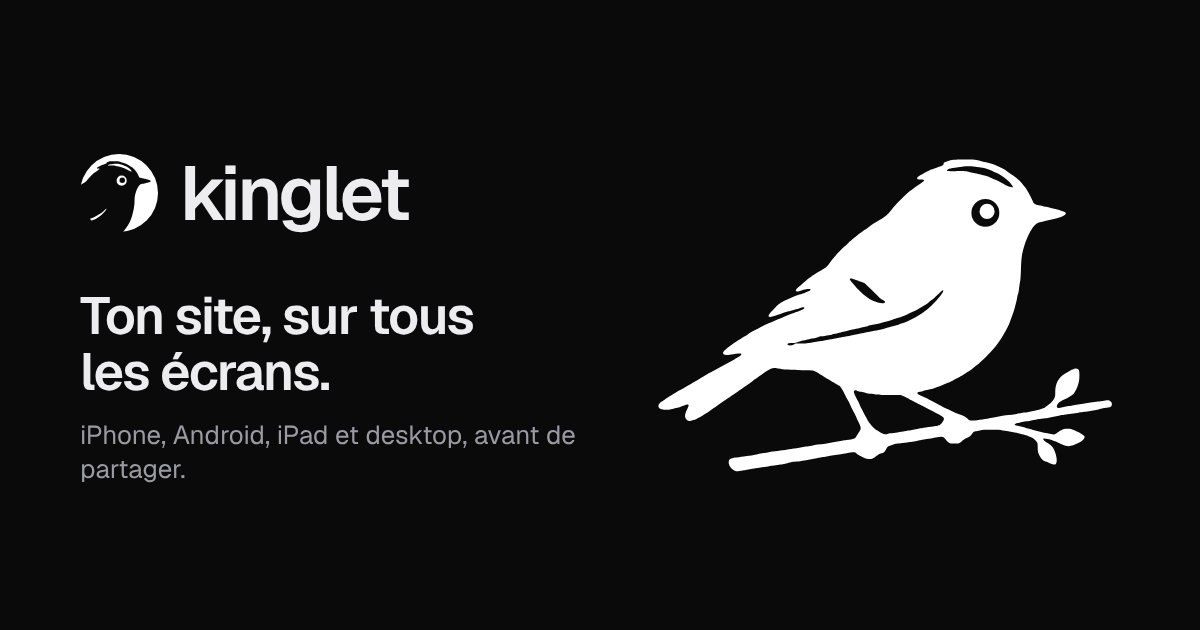
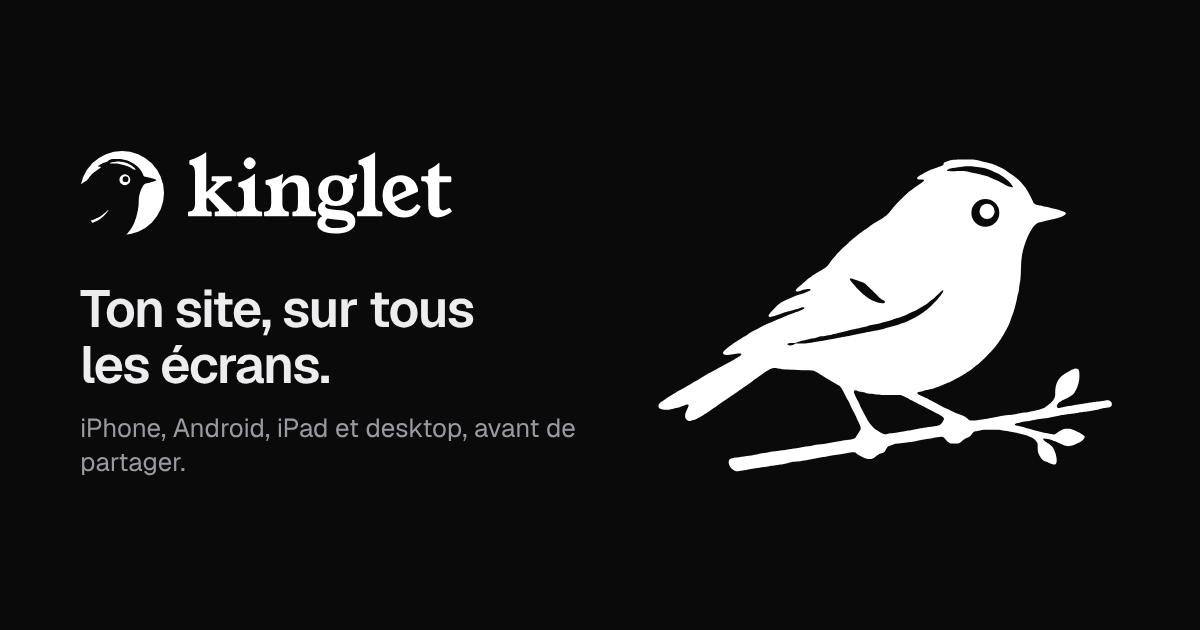
Kinglet wordmark in Young Serif
- brand/: full logo (round head + name) and name alone, in black and white,
  with the letters outlined (no font to load), plus PNG exports.
- Site: the header shows the new logo; share image redone with it.

Claude-Session: https://claude.ai/code/session_01WzDMDJT6R6iaZao3mqEnXa

Changed region(s): [[0.0617, 0.4524, 0.4008, 0.6333], [0.0617, 0.2413, 0.37, 0.3921], [0.0617, 0.6635, 0.4933, 0.7841]]

diff --git a/apps/web/src/index.html b/apps/web/src/index.html
@@ -32,7 +32,7 @@
     h1, h2 { margin: 0; font-weight: 600; letter-spacing: -0.04em; line-height: 1.04; }
     h2 { font-size: clamp(30px, 4vw, 44px); }
     p { margin: 0; color: var(--muted); }
-    .mark { display: block; width: 26px; height: 26px; flex: none; color: var(--fg); }
+    .logo { display: block; height: 27px; width: auto; color: var(--fg); }
     nav { display: flex; flex-wrap: wrap; gap: 16px; align-items: center; justify-content: space-between; padding-top: 20px; padding-bottom: 20px; }
     .brand { display: flex; align-items: center; gap: 10px; text-decoration: none; font-weight: 600; font-size: 19px; letter-spacing: -0.05em; }
     .links { display: flex; flex-wrap: wrap; gap: 24px; align-items: center; font-size: 14px; }
@@ -79,7 +79,7 @@
 </head>
 <body>
   <nav class="wrap" aria-label="Navigation">
-    <a class="brand" href="/"><svg class="mark" viewBox="47 14 44 44" aria-hidden="true"><defs><mask id="kinglet-round" maskUnits="userSpaceOnUse" x="47" y="14" width="44" height="44"><circle cx="69" cy="36" r="22" fill="#fff"/><path fill="#000" fill-rule="evenodd" d="M19.61,81.82C18.85,81.69 18.07,80.76 18.07,79.99C18.07,79.43 18.33,79.18 19.01,79.1C19.2,79.08 19.47,79.04 19.61,79.01C19.9,78.95 22.44,78.59 22.98,78.53C23.19,78.51 23.65,78.42 24.01,78.33C24.37,78.24 24.92,78.14 25.22,78.11C25.52,78.07 25.99,78 26.25,77.94C26.51,77.87 26.91,77.81 27.13,77.79C28.31,77.68 30.1,77.44 30.73,77.3C30.85,77.27 31.25,77.22 31.59,77.19C31.93,77.15 32.46,77.06 32.76,76.98C33.06,76.91 33.53,76.82 33.82,76.78C34.11,76.75 34.65,76.66 35.05,76.59C35.74,76.46 36.67,76.33 37.8,76.22C38.1,76.19 38.59,76.1 38.89,76.02C39.18,75.94 39.69,75.85 40.02,75.81C40.35,75.78 40.88,75.69 41.19,75.61C41.51,75.54 41.93,75.47 42.14,75.44C43.67,75.3 43.89,75.21 44.18,74.64C44.26,74.49 44.48,74.13 44.68,73.85C45.17,73.14 45.16,73.01 44.61,71.84C44.4,71.37 44.18,70.89 44.14,70.78C44.1,70.67 43.81,70.11 43.51,69.53C43.21,68.94 42.9,68.31 42.83,68.12C42.76,67.94 42.6,67.63 42.48,67.44C42.36,67.25 42.09,66.74 41.88,66.3C41.4,65.31 40.93,64.54 40.69,64.36C40.59,64.28 40.21,64.07 39.85,63.88C39.48,63.69 38.95,63.38 38.67,63.2C38.39,63.01 37.86,62.67 37.47,62.45C37.1,62.23 36.63,61.94 36.44,61.8C36.24,61.65 35.91,61.46 35.69,61.38C35.31,61.21 35.31,61.21 33.08,61.17C30.69,61.13 29.27,61.03 28.14,60.83C27.32,60.69 27.06,60.71 26.59,60.95C26.16,61.17 25.37,61.66 24.96,61.98C24.77,62.13 24.32,62.45 23.96,62.69C23.61,62.93 23.2,63.22 23.05,63.34C22.9,63.46 22.57,63.7 22.3,63.88C21.61,64.35 19.99,65.48 19.56,65.8C19.16,66.09 17.63,67.14 16.72,67.74C16.41,67.95 15.99,68.25 15.78,68.41C15.57,68.58 15.32,68.75 15.21,68.81C15.1,68.86 14.81,69.06 14.58,69.23C13.58,69.99 12.01,70.97 11.5,71.13C11.29,71.2 11.01,71.32 10.86,71.38C10.33,71.65 9.8,71.59 9.45,71.23C9.01,70.77 9.06,70.23 9.66,69C10.11,68.08 9.93,67.97 8.81,68.44C8.43,68.6 7.88,68.78 7.59,68.85C7.3,68.91 6.83,69.03 6.55,69.11C5.8,69.33 4.63,69.34 4.21,69.13C3.86,68.95 3.72,68.77 3.72,68.5C3.72,68.21 3.97,67.86 4.39,67.6C4.56,67.49 4.88,67.26 5.09,67.1C5.31,66.94 5.65,66.71 5.87,66.6C6.08,66.48 6.64,66.13 7.12,65.84C7.59,65.54 8,65.29 8.04,65.29C8.07,65.29 8.25,65.2 8.44,65.09C8.91,64.8 9.77,64.3 10.35,63.98C10.91,63.67 12.36,62.81 13.15,62.31C13.45,62.12 13.93,61.85 14.23,61.71C14.53,61.57 14.91,61.36 15.07,61.26C15.35,61.08 16.72,60.33 19.14,59.03C20.2,58.46 20.51,58.24 20.64,58C20.82,57.67 20.41,57.67 18.26,58.01C17.29,58.16 16.88,58.03 16.92,57.57C16.94,57.33 18.06,56.34 18.96,55.77C19.15,55.65 19.52,55.41 19.79,55.24C20.73,54.63 21.13,54.39 21.38,54.26C21.53,54.19 21.78,54.02 21.96,53.89C22.28,53.63 23.06,53.18 23.62,52.93C23.8,52.85 24.09,52.69 24.26,52.58C24.7,52.3 25.04,52.13 26.01,51.71C26.47,51.52 27.11,51.23 27.44,51.09C27.78,50.94 28.27,50.73 28.56,50.63C28.85,50.53 29.61,50.21 30.25,49.93C30.9,49.64 31.64,49.35 31.88,49.29C32.12,49.22 32.4,49.13 32.49,49.07C32.6,49.02 32.85,48.91 33.07,48.83C33.52,48.66 33.65,48.52 33.48,48.39C33.31,48.27 32.98,48.3 32.68,48.46C32.53,48.54 32.23,48.64 32.02,48.68C31.81,48.73 31.5,48.82 31.33,48.89C31.17,48.95 30.73,49.06 30.36,49.14C29.99,49.21 29.57,49.33 29.42,49.39C29.16,49.51 28.32,49.79 27.16,50.17C26.51,50.38 26.33,50.38 26.23,50.18C26.13,49.95 26.38,49.61 27.35,48.61C28.38,47.56 28.43,47.52 29.8,46.84C31.11,46.2 32.12,45.79 32.76,45.66C33.03,45.6 33.44,45.47 33.68,45.37C33.91,45.27 34.21,45.14 34.35,45.08C34.67,44.95 34.88,44.73 34.76,44.65C34.53,44.51 33.59,44.63 32.92,44.89C32.3,45.12 31.88,45.17 31.8,45.01C31.7,44.83 31.89,44.55 32.39,44.15C32.64,43.95 33.08,43.57 33.36,43.32C34.04,42.7 34.6,42.26 35.03,41.99C35.22,41.86 35.6,41.62 35.86,41.45C36.12,41.27 36.64,40.96 37.02,40.76C37.85,40.33 38.31,39.9 38.92,38.99C39.39,38.29 40.58,36.99 41.71,35.93C42.15,35.52 42.55,35.13 42.6,35.08C42.64,35.02 42.89,34.82 43.14,34.63C43.39,34.44 43.71,34.18 43.85,34.05C44.15,33.77 45.57,32.69 45.97,32.45C46.11,32.36 46.38,32.17 46.57,32.02C47.15,31.57 47.81,31.13 48.14,30.96C48.31,30.87 48.61,30.7 48.8,30.56C48.99,30.43 49.36,30.18 49.63,30.02C50.45,29.51 50.54,29.42 51.68,27.96C52.09,27.44 53.83,25.65 54.39,25.18C55.15,24.55 55.85,24.02 56.97,23.27C57.53,22.89 57.95,22.57 57.96,22.51C58,22.29 57.87,22.24 57.31,22.24C56.71,22.24 56.55,22.19 56.55,21.99C56.55,21.83 56.7,21.69 57.2,21.38C58.59,20.54 59.22,20.23 59.96,20.03C60.27,19.95 60.63,19.82 60.78,19.75C60.92,19.68 61.19,19.58 61.38,19.53C61.75,19.42 61.98,19.23 61.98,19.03C61.98,18.81 62.06,18.75 62.73,18.52C63.68,18.2 64.03,18.16 66.24,18.16C68.3,18.16 68.68,18.19 69.5,18.44C69.75,18.51 70.26,18.64 70.64,18.73C72.17,19.07 73.84,19.78 74.97,20.58C75.31,20.82 75.81,21.17 76.1,21.37C76.39,21.56 76.78,21.86 76.97,22.04C77.16,22.22 77.39,22.42 77.48,22.49C77.68,22.63 78.52,23.64 78.87,24.15C79.23,24.68 80.08,26.28 80.18,26.64C80.33,27.17 80.63,27.38 81.42,27.5C81.65,27.53 81.98,27.6 82.14,27.64C82.3,27.69 82.65,27.77 82.92,27.82C83.18,27.87 83.54,27.96 83.73,28.02C83.92,28.08 84.28,28.17 84.53,28.22C85.32,28.37 86.79,28.87 86.89,29.03C87.1,29.35 86.58,29.7 85.44,30.02C85.1,30.11 84.36,30.31 83.8,30.47C83.24,30.63 82.5,30.79 82.17,30.85C81.84,30.9 81.42,31 81.26,31.08C80.85,31.26 80.3,31.82 79.99,32.36C79.86,32.6 79.66,32.92 79.55,33.09C79.24,33.58 78.55,35.34 78.29,36.34C77.91,37.8 77.85,38.28 77.76,40.88C77.72,41.78 77.67,42.62 77.65,42.77C77.54,43.32 77.42,44.2 77.36,44.72C77.33,45.03 77.25,45.41 77.19,45.57C77.12,45.73 77.03,46.11 76.98,46.42C76.91,46.91 76.78,47.42 76.44,48.68C76.38,48.91 76.21,49.41 76.07,49.8C75.92,50.19 75.72,50.76 75.61,51.06C75.06,52.68 73.44,55.36 72.04,56.95C71.03,58.08 69.3,59.79 68.87,60.06C68.68,60.18 68.41,60.39 68.27,60.51C67.94,60.82 67.2,61.37 66.95,61.49C66.84,61.55 66.55,61.74 66.3,61.92C65.88,62.22 65.55,62.4 63.69,63.37C63.36,63.54 62.99,63.71 62.86,63.75C62.74,63.79 62.44,63.91 62.21,64.01C60.68,64.69 59.77,65 58.83,65.18C58.47,65.24 58.02,65.35 57.83,65.41C57.64,65.47 57.34,65.55 57.15,65.59C56.68,65.67 56.59,65.72 56.62,65.91C56.63,66.08 57.04,66.31 57.95,66.67C58.2,66.77 58.62,66.97 58.89,67.12C59.16,67.27 59.77,67.59 60.26,67.84C60.74,68.08 61.33,68.39 61.57,68.54C61.81,68.68 62.23,68.9 62.51,69.02C62.79,69.14 63.23,69.35 63.49,69.49C63.74,69.63 64.12,69.79 64.32,69.86C64.96,70.06 66.03,70.48 66.28,70.63C66.42,70.71 66.68,70.92 66.88,71.09C67.08,71.27 67.31,71.43 67.39,71.45C67.76,71.54 70.17,71.26 71.3,70.99C71.63,70.91 72.16,70.82 72.46,70.78C72.78,70.75 73.24,70.67 73.48,70.61C73.73,70.54 74.28,70.46 74.69,70.41C75.64,70.31 76.88,70.13 77.59,69.99C77.88,69.93 78.35,69.86 78.62,69.84C78.89,69.82 79.31,69.74 79.56,69.67C79.81,69.59 80.25,69.5 80.54,69.45C81.26,69.33 82.37,68.98 82.65,68.79C82.88,68.65 83.13,68.46 83.84,67.89C84.45,67.4 84.83,66.66 84.77,66.04C84.75,65.83 84.77,65.36 84.81,64.93C85,63.38 85.78,62.3 87.25,61.58C87.51,61.45 87.76,61.32 87.79,61.29C87.88,61.21 88.7,60.9 88.92,60.86C89.22,60.81 89.5,60.96 89.62,61.24C89.73,61.5 89.74,62.62 89.65,63.26C89.51,64.25 89.01,65.47 88.54,65.97C88.29,66.24 87.48,66.77 87.03,66.95C86.53,67.16 85.72,67.6 85.55,67.76C85.1,68.19 84.96,68.67 85.25,68.83C85.45,68.93 86.04,68.88 86.54,68.71C86.76,68.63 87.19,68.54 87.49,68.5C87.79,68.47 88.26,68.39 88.52,68.32C88.78,68.26 89.35,68.17 89.79,68.12C90.23,68.07 90.76,67.99 90.97,67.95C91.34,67.86 92.58,67.68 93.48,67.58C93.75,67.55 94.32,67.47 94.76,67.4C95.54,67.28 95.55,67.28 95.81,67.39C96.39,67.62 96.54,68.35 96.08,68.65C95.91,68.76 95.25,68.89 94.87,68.9C94.73,68.9 94.39,68.97 94.12,69.07C93.84,69.16 93.38,69.26 93.08,69.3C92.78,69.33 92.27,69.42 91.94,69.5C91.61,69.57 91.06,69.66 90.73,69.69C90.39,69.73 89.85,69.8 89.53,69.86C88.83,69.99 87.4,70.19 86.62,70.26C86.31,70.29 85.89,70.37 85.67,70.43C85.45,70.5 85.02,70.59 84.71,70.63C84.39,70.69 83.94,70.77 83.7,70.83C83.47,70.89 83.02,70.97 82.7,71.01C81.86,71.11 80.3,71.35 79.91,71.44C79.71,71.49 79.24,71.56 78.85,71.61C78.45,71.65 77.97,71.74 77.78,71.81C77.58,71.87 77.28,71.95 77.1,71.98C76.58,72.08 76.34,72.3 76.61,72.44C76.67,72.47 77.07,72.56 77.48,72.64C77.9,72.72 78.43,72.84 78.64,72.92C78.86,72.99 79.15,73.07 79.27,73.09C79.4,73.12 79.77,73.22 80.1,73.33C81,73.61 82.38,73.95 83.19,74.07C83.49,74.12 83.85,74.19 83.99,74.24C84.48,74.41 84.65,74.37 85.23,73.92C85.41,73.77 85.8,73.53 86.08,73.4C86.58,73.17 86.62,73.16 87.23,73.14C87.84,73.12 87.87,73.12 88.39,73.33C89.47,73.75 90.59,74.39 90.74,74.68C90.92,75.01 90.44,75.61 89.7,75.97C87.96,76.83 87.4,76.9 86.19,76.35C85.88,76.21 85.43,76 85.19,75.89C84.95,75.79 84.74,75.7 84.72,75.7C84.69,75.7 84.44,75.61 84.16,75.5C83.57,75.27 82.43,75.07 82.33,75.17C82.18,75.31 82.66,75.76 83.39,76.16C84.08,76.55 84.52,77.15 84.83,78.18C85.15,79.21 85.16,80.08 84.84,80.37C84.67,80.52 84.42,80.49 83.79,80.23C83.48,80.11 83.02,79.93 82.79,79.85C82.23,79.63 81.95,79.37 81.6,78.71C81.25,78.07 81.19,77.78 81.19,76.88C81.19,76.34 81.17,76.14 81.08,75.96C80.97,75.71 80.45,75.2 80.08,74.99C79.83,74.84 78.4,74.33 78.25,74.33C78.2,74.33 77.91,74.25 77.6,74.15C77.11,73.99 76.7,73.91 75.39,73.7C75.17,73.66 74.59,73.57 74.1,73.49C73.3,73.36 73.05,73.34 71.61,73.34C70.09,73.34 69.98,73.34 69.38,73.48C69.04,73.56 68.65,73.65 68.52,73.67C68.16,73.73 67.99,73.85 67.72,74.27C67.44,74.68 67.24,74.83 66.7,75.01C66.33,75.14 66.14,75.27 65.68,75.69C65.2,76.12 65.09,76.16 64.19,76.16C63.45,76.16 63.41,76.15 63.08,75.98C62.82,75.85 62.67,75.73 62.52,75.51C61.93,74.69 61.86,74.67 60.71,74.87C60.23,74.95 59.69,75.05 59.52,75.1C59.35,75.15 58.91,75.21 58.55,75.25C58.19,75.28 57.66,75.37 57.38,75.44C57.09,75.52 56.56,75.62 56.2,75.67C55.84,75.72 55.32,75.81 55.03,75.87C54.53,75.98 52.68,76.21 52.33,76.21C52.08,76.21 50.75,76.66 50.57,76.8C50.49,76.86 50.34,77.1 50.22,77.32C49.9,77.97 49.75,78.08 49.1,78.19C48.97,78.21 48.72,78.35 48.39,78.59C47.52,79.25 47.39,79.3 46.8,79.3C46.34,79.3 46.23,79.28 45.81,79.1C45.31,78.9 44.32,78.34 44.19,78.18C43.95,77.88 43.46,77.87 42.17,78.13C41.79,78.21 41.25,78.3 40.97,78.33C39.97,78.45 38.85,78.62 38.34,78.74C38.06,78.79 37.59,78.87 37.31,78.91C37.03,78.94 36.56,79.03 36.28,79.1C35.99,79.18 35.52,79.26 35.22,79.3C34.92,79.34 34.43,79.43 34.13,79.5C33.6,79.63 31.8,79.87 31.34,79.87C31.21,79.87 30.86,79.95 30.57,80.05C30.28,80.14 29.83,80.25 29.59,80.28C29.34,80.31 28.9,80.4 28.62,80.47C28.33,80.55 27.77,80.63 27.36,80.67C26.95,80.71 26.49,80.77 26.34,80.79C25.95,80.87 24.31,81.12 23.56,81.22C23.22,81.26 22.69,81.36 22.36,81.44C22.02,81.52 21.58,81.6 21.36,81.62C21.13,81.64 20.76,81.69 20.53,81.73C19.88,81.85 19.83,81.85 19.61,81.82ZM50.46,74.19C50.65,74.15 50.97,74.09 51.17,74.07C51.75,74.01 53.37,73.77 54,73.64C54.32,73.58 54.72,73.52 54.89,73.5C55.06,73.48 55.45,73.4 55.75,73.33C56.04,73.25 56.51,73.16 56.78,73.13C57.04,73.09 57.44,73.02 57.66,72.98C57.88,72.93 58.68,72.82 59.45,72.73C60.5,72.6 60.88,72.53 61.06,72.44C61.42,72.26 62.04,71.43 62.04,71.13C62.04,70.74 61.81,70.6 57.98,68.65C55.35,67.31 55.17,67.22 54.77,66.97C54.57,66.84 54.13,66.63 53.81,66.5L53.21,66.26L50.92,66.24C49.12,66.23 48.52,66.21 48.14,66.14C47.87,66.09 47.4,66.03 47.08,66.01C46.75,65.99 46.33,65.91 46.07,65.83C45.82,65.75 45.41,65.65 45.15,65.6C44.88,65.56 44.52,65.47 44.34,65.41C44.16,65.35 43.96,65.29 43.91,65.29C43.75,65.29 43.61,65.5 43.64,65.68C43.68,65.9 44.2,67.03 44.45,67.43C44.56,67.62 44.73,67.98 44.83,68.23C44.93,68.49 45.05,68.76 45.1,68.84C45.15,68.92 45.32,69.24 45.48,69.55C46.19,70.92 46.63,71.7 46.91,72.07C47.39,72.7 47.98,73.28 48.32,73.45C48.49,73.53 48.75,73.69 48.9,73.8C49.22,74.03 49.76,74.27 49.97,74.27C50.05,74.27 50.27,74.23 50.46,74.19ZM31.41,55.91C31.74,55.75 31.77,55.75 32.67,55.75C33.61,55.75 34.28,55.67 35.96,55.37C36.39,55.29 36.91,55.22 37.14,55.2C37.36,55.18 37.79,55.1 38.1,55.03C38.4,54.95 38.94,54.85 39.27,54.8C39.61,54.76 40.08,54.67 40.31,54.61C40.55,54.55 41.21,54.43 41.79,54.35C42.37,54.27 43.04,54.14 43.29,54.06C43.54,53.98 43.99,53.89 44.3,53.85C44.6,53.82 45.01,53.73 45.21,53.65C45.41,53.58 45.78,53.49 46.04,53.46C46.3,53.42 46.67,53.36 46.86,53.32C47.06,53.27 47.68,53.16 48.26,53.06C48.85,52.97 49.61,52.8 49.97,52.68C50.33,52.57 50.86,52.41 51.14,52.32C51.43,52.22 51.8,52.12 51.97,52.08C52.14,52.05 52.53,51.93 52.83,51.83C53.13,51.73 53.52,51.6 53.7,51.55C53.89,51.49 54.19,51.38 54.36,51.29C54.55,51.2 54.88,51.04 55.12,50.93C55.35,50.82 55.77,50.62 56.06,50.48C56.75,50.15 58.02,49.28 58.89,48.54C60.37,47.27 62.04,45.26 61.9,44.91C61.84,44.76 61.66,44.9 60.81,45.73C60.37,46.17 59.82,46.64 59.61,46.8C59.39,46.95 59.07,47.19 58.9,47.33C58.36,47.78 57.01,48.58 55.66,49.26C54.04,50.06 53.37,50.34 52.6,50.52C52.27,50.6 51.87,50.73 51.72,50.8C51.01,51.13 48.51,51.78 47.24,51.97C47.02,52 46.71,52.08 46.56,52.15C46.41,52.21 46.03,52.32 45.71,52.37C45.4,52.43 45.03,52.52 44.88,52.57C44.74,52.62 44.21,52.73 43.71,52.8C43.2,52.88 42.67,52.99 42.52,53.05C42.37,53.12 42.02,53.21 41.75,53.26C41.48,53.32 40.99,53.43 40.68,53.52C40.37,53.61 39.94,53.71 39.75,53.74C39.55,53.78 39.31,53.84 39.23,53.87C39.07,53.93 37.15,54.26 36.95,54.26C36.87,54.26 36.58,54.34 36.3,54.43C36.01,54.53 35.61,54.63 35.4,54.66C35.19,54.69 34.85,54.77 34.65,54.83C34.44,54.9 34.01,54.99 33.68,55.04C32.92,55.14 32.74,55.19 32.21,55.44C31.8,55.62 31.74,55.63 31.12,55.63C30.44,55.63 30.07,55.72 30.07,55.88C30.07,56.18 30.85,56.2 31.41,55.91ZM49.91,47.41C50.12,47.24 50.02,47.09 49.5,46.79C49.09,46.55 48.81,46.3 47.46,44.93C45.72,43.19 45.87,43.3 44.74,42.99C44.49,42.92 44.08,42.78 43.84,42.67C43.14,42.37 42.82,42.36 42.82,42.65C42.82,42.77 44.27,44.45 44.94,45.11C45.67,45.84 46.75,46.64 47.43,46.97C48.42,47.45 49.61,47.66 49.91,47.41ZM67.65,29.05A2.85,2.85 0 1 0 73.35,29.05A2.85,2.85 0 1 0 67.65,29.05ZM69.30,28.75A1.55,1.55 0 1 0 72.40,28.75A1.55,1.55 0 1 0 69.30,28.75ZM76.16,23.79C76.16,23.61 75.51,22.76 75.15,22.46C73.97,21.51 73.2,21.01 72.58,20.79C72.43,20.73 72.21,20.63 72.11,20.58C71.8,20.4 70.59,19.97 70.23,19.9C68.07,19.51 67.07,19.45 65.72,19.61C63.4,19.89 62.89,20 62.7,20.31C62.58,20.5 62.76,20.53 64.47,20.52C66.11,20.51 66.66,20.55 67.21,20.72C67.36,20.77 67.76,20.85 68.1,20.9C68.43,20.95 68.97,21.06 69.3,21.15C69.63,21.24 70.09,21.36 70.33,21.41C70.84,21.53 71.49,21.78 71.96,22.04C72.14,22.14 72.4,22.26 72.53,22.3C72.85,22.4 73.94,22.96 74.41,23.26C74.91,23.58 76.16,23.96 76.16,23.79Z"/></mask></defs><rect x="47" y="14" width="44" height="44" fill="currentColor" mask="url(#kinglet-round)"/></svg>kinglet</a>
+    <a class="brand" href="/"><svg class="logo" role="img" aria-label="Kinglet" viewBox="0 -817 4647 1050"><defs><mask id="kinglet-logo" maskUnits="userSpaceOnUse" x="47" y="14" width="44" height="44"><circle cx="69" cy="36" r="22" fill="#fff"/><path fill="#000" fill-rule="evenodd" d="M19.61,81.82C18.85,81.69 18.07,80.76 18.07,79.99C18.07,79.43 18.33,79.18 19.01,79.1C19.2,79.08 19.47,79.04 19.61,79.01C19.9,78.95 22.44,78.59 22.98,78.53C23.19,78.51 23.65,78.42 24.01,78.33C24.37,78.24 24.92,78.14 25.22,78.11C25.52,78.07 25.99,78 26.25,77.94C26.51,77.87 26.91,77.81 27.13,77.79C28.31,77.68 30.1,77.44 30.73,77.3C30.85,77.27 31.25,77.22 31.59,77.19C31.93,77.15 32.46,77.06 32.76,76.98C33.06,76.91 33.53,76.82 33.82,76.78C34.11,76.75 34.65,76.66 35.05,76.59C35.74,76.46 36.67,76.33 37.8,76.22C38.1,76.19 38.59,76.1 38.89,76.02C39.18,75.94 39.69,75.85 40.02,75.81C40.35,75.78 40.88,75.69 41.19,75.61C41.51,75.54 41.93,75.47 42.14,75.44C43.67,75.3 43.89,75.21 44.18,74.64C44.26,74.49 44.48,74.13 44.68,73.85C45.17,73.14 45.16,73.01 44.61,71.84C44.4,71.37 44.18,70.89 44.14,70.78C44.1,70.67 43.81,70.11 43.51,69.53C43.21,68.94 42.9,68.31 42.83,68.12C42.76,67.94 42.6,67.63 42.48,67.44C42.36,67.25 42.09,66.74 41.88,66.3C41.4,65.31 40.93,64.54 40.69,64.36C40.59,64.28 40.21,64.07 39.85,63.88C39.48,63.69 38.95,63.38 38.67,63.2C38.39,63.01 37.86,62.67 37.47,62.45C37.1,62.23 36.63,61.94 36.44,61.8C36.24,61.65 35.91,61.46 35.69,61.38C35.31,61.21 35.31,61.21 33.08,61.17C30.69,61.13 29.27,61.03 28.14,60.83C27.32,60.69 27.06,60.71 26.59,60.95C26.16,61.17 25.37,61.66 24.96,61.98C24.77,62.13 24.32,62.45 23.96,62.69C23.61,62.93 23.2,63.22 23.05,63.34C22.9,63.46 22.57,63.7 22.3,63.88C21.61,64.35 19.99,65.48 19.56,65.8C19.16,66.09 17.63,67.14 16.72,67.74C16.41,67.95 15.99,68.25 15.78,68.41C15.57,68.58 15.32,68.75 15.21,68.81C15.1,68.86 14.81,69.06 14.58,69.23C13.58,69.99 12.01,70.97 11.5,71.13C11.29,71.2 11.01,71.32 10.86,71.38C10.33,71.65 9.8,71.59 9.45,71.23C9.01,70.77 9.06,70.23 9.66,69C10.11,68.08 9.93,67.97 8.81,68.44C8.43,68.6 7.88,68.78 7.59,68.85C7.3,68.91 6.83,69.03 6.55,69.11C5.8,69.33 4.63,69.34 4.21,69.13C3.86,68.95 3.72,68.77 3.72,68.5C3.72,68.21 3.97,67.86 4.39,67.6C4.56,67.49 4.88,67.26 5.09,67.1C5.31,66.94 5.65,66.71 5.87,66.6C6.08,66.48 6.64,66.13 7.12,65.84C7.59,65.54 8,65.29 8.04,65.29C8.07,65.29 8.25,65.2 8.44,65.09C8.91,64.8 9.77,64.3 10.35,63.98C10.91,63.67 12.36,62.81 13.15,62.31C13.45,62.12 13.93,61.85 14.23,61.71C14.53,61.57 14.91,61.36 15.07,61.26C15.35,61.08 16.72,60.33 19.14,59.03C20.2,58.46 20.51,58.24 20.64,58C20.82,57.67 20.41,57.67 18.26,58.01C17.29,58.16 16.88,58.03 16.92,57.57C16.94,57.33 18.06,56.34 18.96,55.77C19.15,55.65 19.52,55.41 19.79,55.24C20.73,54.63 21.13,54.39 21.38,54.26C21.53,54.19 21.78,54.02 21.96,53.89C22.28,53.63 23.06,53.18 23.62,52.93C23.8,52.85 24.09,52.69 24.26,52.58C24.7,52.3 25.04,52.13 26.01,51.71C26.47,51.52 27.11,51.23 27.44,51.09C27.78,50.94 28.27,50.73 28.56,50.63C28.85,50.53 29.61,50.21 30.25,49.93C30.9,49.64 31.64,49.35 31.88,49.29C32.12,49.22 32.4,49.13 32.49,49.07C32.6,49.02 32.85,48.91 33.07,48.83C33.52,48.66 33.65,48.52 33.48,48.39C33.31,48.27 32.98,48.3 32.68,48.46C32.53,48.54 32.23,48.64 32.02,48.68C31.81,48.73 31.5,48.82 31.33,48.89C31.17,48.95 30.73,49.06 30.36,49.14C29.99,49.21 29.57,49.33 29.42,49.39C29.16,49.51 28.32,49.79 27.16,50.17C26.51,50.38 26.33,50.38 26.23,50.18C26.13,49.95 26.38,49.61 27.35,48.61C28.38,47.56 28.43,47.52 29.8,46.84C31.11,46.2 32.12,45.79 32.76,45.66C33.03,45.6 33.44,45.47 33.68,45.37C33.91,45.27 34.21,45.14 34.35,45.08C34.67,44.95 34.88,44.73 34.76,44.65C34.53,44.51 33.59,44.63 32.92,44.89C32.3,45.12 31.88,45.17 31.8,45.01C31.7,44.83 31.89,44.55 32.39,44.15C32.64,43.95 33.08,43.57 33.36,43.32C34.04,42.7 34.6,42.26 35.03,41.99C35.22,41.86 35.6,41.62 35.86,41.45C36.12,41.27 36.64,40.96 37.02,40.76C37.85,40.33 38.31,39.9 38.92,38.99C39.39,38.29 40.58,36.99 41.71,35.93C42.15,35.52 42.55,35.13 42.6,35.08C42.64,35.02 42.89,34.82 43.14,34.63C43.39,34.44 43.71,34.18 43.85,34.05C44.15,33.77 45.57,32.69 45.97,32.45C46.11,32.36 46.38,32.17 46.57,32.02C47.15,31.57 47.81,31.13 48.14,30.96C48.31,30.87 48.61,30.7 48.8,30.56C48.99,30.43 49.36,30.18 49.63,30.02C50.45,29.51 50.54,29.42 51.68,27.96C52.09,27.44 53.83,25.65 54.39,25.18C55.15,24.55 55.85,24.02 56.97,23.27C57.53,22.89 57.95,22.57 57.96,22.51C58,22.29 57.87,22.24 57.31,22.24C56.71,22.24 56.55,22.19 56.55,21.99C56.55,21.83 56.7,21.69 57.2,21.38C58.59,20.54 59.22,20.23 59.96,20.03C60.27,19.95 60.63,19.82 60.78,19.75C60.92,19.68 61.19,19.58 61.38,19.53C61.75,19.42 61.98,19.23 61.98,19.03C61.98,18.81 62.06,18.75 62.73,18.52C63.68,18.2 64.03,18.16 66.24,18.16C68.3,18.16 68.68,18.19 69.5,18.44C69.75,18.51 70.26,18.64 70.64,18.73C72.17,19.07 73.84,19.78 74.97,20.58C75.31,20.82 75.81,21.17 76.1,21.37C76.39,21.56 76.78,21.86 76.97,22.04C77.16,22.22 77.39,22.42 77.48,22.49C77.68,22.63 78.52,23.64 78.87,24.15C79.23,24.68 80.08,26.28 80.18,26.64C80.33,27.17 80.63,27.38 81.42,27.5C81.65,27.53 81.98,27.6 82.14,27.64C82.3,27.69 82.65,27.77 82.92,27.82C83.18,27.87 83.54,27.96 83.73,28.02C83.92,28.08 84.28,28.17 84.53,28.22C85.32,28.37 86.79,28.87 86.89,29.03C87.1,29.35 86.58,29.7 85.44,30.02C85.1,30.11 84.36,30.31 83.8,30.47C83.24,30.63 82.5,30.79 82.17,30.85C81.84,30.9 81.42,31 81.26,31.08C80.85,31.26 80.3,31.82 79.99,32.36C79.86,32.6 79.66,32.92 79.55,33.09C79.24,33.58 78.55,35.34 78.29,36.34C77.91,37.8 77.85,38.28 77.76,40.88C77.72,41.78 77.67,42.62 77.65,42.77C77.54,43.32 77.42,44.2 77.36,44.72C77.33,45.03 77.25,45.41 77.19,45.57C77.12,45.73 77.03,46.11 76.98,46.42C76.91,46.91 76.78,47.42 76.44,48.68C76.38,48.91 76.21,49.41 76.07,49.8C75.92,50.19 75.72,50.76 75.61,51.06C75.06,52.68 73.44,55.36 72.04,56.95C71.03,58.08 69.3,59.79 68.87,60.06C68.68,60.18 68.41,60.39 68.27,60.51C67.94,60.82 67.2,61.37 66.95,61.49C66.84,61.55 66.55,61.74 66.3,61.92C65.88,62.22 65.55,62.4 63.69,63.37C63.36,63.54 62.99,63.71 62.86,63.75C62.74,63.79 62.44,63.91 62.21,64.01C60.68,64.69 59.77,65 58.83,65.18C58.47,65.24 58.02,65.35 57.83,65.41C57.64,65.47 57.34,65.55 57.15,65.59C56.68,65.67 56.59,65.72 56.62,65.91C56.63,66.08 57.04,66.31 57.95,66.67C58.2,66.77 58.62,66.97 58.89,67.12C59.16,67.27 59.77,67.59 60.26,67.84C60.74,68.08 61.33,68.39 61.57,68.54C61.81,68.68 62.23,68.9 62.51,69.02C62.79,69.14 63.23,69.35 63.49,69.49C63.74,69.63 64.12,69.79 64.32,69.86C64.96,70.06 66.03,70.48 66.28,70.63C66.42,70.71 66.68,70.92 66.88,71.09C67.08,71.27 67.31,71.43 67.39,71.45C67.76,71.54 70.17,71.26 71.3,70.99C71.63,70.91 72.16,70.82 72.46,70.78C72.78,70.75 73.24,70.67 73.48,70.61C73.73,70.54 74.28,70.46 74.69,70.41C75.64,70.31 76.88,70.13 77.59,69.99C77.88,69.93 78.35,69.86 78.62,69.84C78.89,69.82 79.31,69.74 79.56,69.67C79.81,69.59 80.25,69.5 80.54,69.45C81.26,69.33 82.37,68.98 82.65,68.79C82.88,68.65 83.13,68.46 83.84,67.89C84.45,67.4 84.83,66.66 84.77,66.04C84.75,65.83 84.77,65.36 84.81,64.93C85,63.38 85.78,62.3 87.25,61.58C87.51,61.45 87.76,61.32 87.79,61.29C87.88,61.21 88.7,60.9 88.92,60.86C89.22,60.81 89.5,60.96 89.62,61.24C89.73,61.5 89.74,62.62 89.65,63.26C89.51,64.25 89.01,65.47 88.54,65.97C88.29,66.24 87.48,66.77 87.03,66.95C86.53,67.16 85.72,67.6 85.55,67.76C85.1,68.19 84.96,68.67 85.25,68.83C85.45,68.93 86.04,68.88 86.54,68.71C86.76,68.63 87.19,68.54 87.49,68.5C87.79,68.47 88.26,68.39 88.52,68.32C88.78,68.26 89.35,68.17 89.79,68.12C90.23,68.07 90.76,67.99 90.97,67.95C91.34,67.86 92.58,67.68 93.48,67.58C93.75,67.55 94.32,67.47 94.76,67.4C95.54,67.28 95.55,67.28 95.81,67.39C96.39,67.62 96.54,68.35 96.08,68.65C95.91,68.76 95.25,68.89 94.87,68.9C94.73,68.9 94.39,68.97 94.12,69.07C93.84,69.16 93.38,69.26 93.08,69.3C92.78,69.33 92.27,69.42 91.94,69.5C91.61,69.57 91.06,69.66 90.73,69.69C90.39,69.73 89.85,69.8 89.53,69.86C88.83,69.99 87.4,70.19 86.62,70.26C86.31,70.29 85.89,70.37 85.67,70.43C85.45,70.5 85.02,70.59 84.71,70.63C84.39,70.69 83.94,70.77 83.7,70.83C83.47,70.89 83.02,70.97 82.7,71.01C81.86,71.11 80.3,71.35 79.91,71.44C79.71,71.49 79.24,71.56 78.85,71.61C78.45,71.65 77.97,71.74 77.78,71.81C77.58,71.87 77.28,71.95 77.1,71.98C76.58,72.08 76.34,72.3 76.61,72.44C76.67,72.47 77.07,72.56 77.48,72.64C77.9,72.72 78.43,72.84 78.64,72.92C78.86,72.99 79.15,73.07 79.27,73.09C79.4,73.12 79.77,73.22 80.1,73.33C81,73.61 82.38,73.95 83.19,74.07C83.49,74.12 83.85,74.19 83.99,74.24C84.48,74.41 84.65,74.37 85.23,73.92C85.41,73.77 85.8,73.53 86.08,73.4C86.58,73.17 86.62,73.16 87.23,73.14C87.84,73.12 87.87,73.12 88.39,73.33C89.47,73.75 90.59,74.39 90.74,74.68C90.92,75.01 90.44,75.61 89.7,75.97C87.96,76.83 87.4,76.9 86.19,76.35C85.88,76.21 85.43,76 85.19,75.89C84.95,75.79 84.74,75.7 84.72,75.7C84.69,75.7 84.44,75.61 84.16,75.5C83.57,75.27 82.43,75.07 82.33,75.17C82.18,75.31 82.66,75.76 83.39,76.16C84.08,76.55 84.52,77.15 84.83,78.18C85.15,79.21 85.16,80.08 84.84,80.37C84.67,80.52 84.42,80.49 83.79,80.23C83.48,80.11 83.02,79.93 82.79,79.85C82.23,79.63 81.95,79.37 81.6,78.71C81.25,78.07 81.19,77.78 81.19,76.88C81.19,76.34 81.17,76.14 81.08,75.96C80.97,75.71 80.45,75.2 80.08,74.99C79.83,74.84 78.4,74.33 78.25,74.33C78.2,74.33 77.91,74.25 77.6,74.15C77.11,73.99 76.7,73.91 75.39,73.7C75.17,73.66 74.59,73.57 74.1,73.49C73.3,73.36 73.05,73.34 71.61,73.34C70.09,73.34 69.98,73.34 69.38,73.48C69.04,73.56 68.65,73.65 68.52,73.67C68.16,73.73 67.99,73.85 67.72,74.27C67.44,74.68 67.24,74.83 66.7,75.01C66.33,75.14 66.14,75.27 65.68,75.69C65.2,76.12 65.09,76.16 64.19,76.16C63.45,76.16 63.41,76.15 63.08,75.98C62.82,75.85 62.67,75.73 62.52,75.51C61.93,74.69 61.86,74.67 60.71,74.87C60.23,74.95 59.69,75.05 59.52,75.1C59.35,75.15 58.91,75.21 58.55,75.25C58.19,75.28 57.66,75.37 57.38,75.44C57.09,75.52 56.56,75.62 56.2,75.67C55.84,75.72 55.32,75.81 55.03,75.87C54.53,75.98 52.68,76.21 52.33,76.21C52.08,76.21 50.75,76.66 50.57,76.8C50.49,76.86 50.34,77.1 50.22,77.32C49.9,77.97 49.75,78.08 49.1,78.19C48.97,78.21 48.72,78.35 48.39,78.59C47.52,79.25 47.39,79.3 46.8,79.3C46.34,79.3 46.23,79.28 45.81,79.1C45.31,78.9 44.32,78.34 44.19,78.18C43.95,77.88 43.46,77.87 42.17,78.13C41.79,78.21 41.25,78.3 40.97,78.33C39.97,78.45 38.85,78.62 38.34,78.74C38.06,78.79 37.59,78.87 37.31,78.91C37.03,78.94 36.56,79.03 36.28,79.1C35.99,79.18 35.52,79.26 35.22,79.3C34.92,79.34 34.43,79.43 34.13,79.5C33.6,79.63 31.8,79.87 31.34,79.87C31.21,79.87 30.86,79.95 30.57,80.05C30.28,80.14 29.83,80.25 29.59,80.28C29.34,80.31 28.9,80.4 28.62,80.47C28.33,80.55 27.77,80.63 27.36,80.67C26.95,80.71 26.49,80.77 26.34,80.79C25.95,80.87 24.31,81.12 23.56,81.22C23.22,81.26 22.69,81.36 22.36,81.44C22.02,81.52 21.58,81.6 21.36,81.62C21.13,81.64 20.76,81.69 20.53,81.73C19.88,81.85 19.83,81.85 19.61,81.82ZM50.46,74.19C50.65,74.15 50.97,74.09 51.17,74.07C51.75,74.01 53.37,73.77 54,73.64C54.32,73.58 54.72,73.52 54.89,73.5C55.06,73.48 55.45,73.4 55.75,73.33C56.04,73.25 56.51,73.16 56.78,73.13C57.04,73.09 57.44,73.02 57.66,72.98C57.88,72.93 58.68,72.82 59.45,72.73C60.5,72.6 60.88,72.53 61.06,72.44C61.42,72.26 62.04,71.43 62.04,71.13C62.04,70.74 61.81,70.6 57.98,68.65C55.35,67.31 55.17,67.22 54.77,66.97C54.57,66.84 54.13,66.63 53.81,66.5L53.21,66.26L50.92,66.24C49.12,66.23 48.52,66.21 48.14,66.14C47.87,66.09 47.4,66.03 47.08,66.01C46.75,65.99 46.33,65.91 46.07,65.83C45.82,65.75 45.41,65.65 45.15,65.6C44.88,65.56 44.52,65.47 44.34,65.41C44.16,65.35 43.96,65.29 43.91,65.29C43.75,65.29 43.61,65.5 43.64,65.68C43.68,65.9 44.2,67.03 44.45,67.43C44.56,67.62 44.73,67.98 44.83,68.23C44.93,68.49 45.05,68.76 45.1,68.84C45.15,68.92 45.32,69.24 45.48,69.55C46.19,70.92 46.63,71.7 46.91,72.07C47.39,72.7 47.98,73.28 48.32,73.45C48.49,73.53 48.75,73.69 48.9,73.8C49.22,74.03 49.76,74.27 49.97,74.27C50.05,74.27 50.27,74.23 50.46,74.19ZM31.41,55.91C31.74,55.75 31.77,55.75 32.67,55.75C33.61,55.75 34.28,55.67 35.96,55.37C36.39,55.29 36.91,55.22 37.14,55.2C37.36,55.18 37.79,55.1 38.1,55.03C38.4,54.95 38.94,54.85 39.27,54.8C39.61,54.76 40.08,54.67 40.31,54.61C40.55,54.55 41.21,54.43 41.79,54.35C42.37,54.27 43.04,54.14 43.29,54.06C43.54,53.98 43.99,53.89 44.3,53.85C44.6,53.82 45.01,53.73 45.21,53.65C45.41,53.58 45.78,53.49 46.04,53.46C46.3,53.42 46.67,53.36 46.86,53.32C47.06,53.27 47.68,53.16 48.26,53.06C48.85,52.97 49.61,52.8 49.97,52.68C50.33,52.57 50.86,52.41 51.14,52.32C51.43,52.22 51.8,52.12 51.97,52.08C52.14,52.05 52.53,51.93 52.83,51.83C53.13,51.73 53.52,51.6 53.7,51.55C53.89,51.49 54.19,51.38 54.36,51.29C54.55,51.2 54.88,51.04 55.12,50.93C55.35,50.82 55.77,50.62 56.06,50.48C56.75,50.15 58.02,49.28 58.89,48.54C60.37,47.27 62.04,45.26 61.9,44.91C61.84,44.76 61.66,44.9 60.81,45.73C60.37,46.17 59.82,46.64 59.61,46.8C59.39,46.95 59.07,47.19 58.9,47.33C58.36,47.78 57.01,48.58 55.66,49.26C54.04,50.06 53.37,50.34 52.6,50.52C52.27,50.6 51.87,50.73 51.72,50.8C51.01,51.13 48.51,51.78 47.24,51.97C47.02,52 46.71,52.08 46.56,52.15C46.41,52.21 46.03,52.32 45.71,52.37C45.4,52.43 45.03,52.52 44.88,52.57C44.74,52.62 44.21,52.73 43.71,52.8C43.2,52.88 42.67,52.99 42.52,53.05C42.37,53.12 42.02,53.21 41.75,53.26C41.48,53.32 40.99,53.43 40.68,53.52C40.37,53.61 39.94,53.71 39.75,53.74C39.55,53.78 39.31,53.84 39.23,53.87C39.07,53.93 37.15,54.26 36.95,54.26C36.87,54.26 36.58,54.34 36.3,54.43C36.01,54.53 35.61,54.63 35.4,54.66C35.19,54.69 34.85,54.77 34.65,54.83C34.44,54.9 34.01,54.99 33.68,55.04C32.92,55.14 32.74,55.19 32.21,55.44C31.8,55.62 31.74,55.63 31.12,55.63C30.44,55.63 30.07,55.72 30.07,55.88C30.07,56.18 30.85,56.2 31.41,55.91ZM49.91,47.41C50.12,47.24 50.02,47.09 49.5,46.79C49.09,46.55 48.81,46.3 47.46,44.93C45.72,43.19 45.87,43.3 44.74,42.99C44.49,42.92 44.08,42.78 43.84,42.67C43.14,42.37 42.82,42.36 42.82,42.65C42.82,42.77 44.27,44.45 44.94,45.11C45.67,45.84 46.75,46.64 47.43,46.97C48.42,47.45 49.61,47.66 49.91,47.41ZM67.65,29.05A2.85,2.85 0 1 0 73.35,29.05A2.85,2.85 0 1 0 67.65,29.05ZM69.30,28.75A1.55,1.55 0 1 0 72.40,28.75A1.55,1.55 0 1 0 69.30,28.75ZM76.16,23.79C76.16,23.61 75.51,22.76 75.15,22.46C73.97,21.51 73.2,21.01 72.58,20.79C72.43,20.73 72.21,20.63 72.11,20.58C71.8,20.4 70.59,19.97 70.23,19.9C68.07,19.51 67.07,19.45 65.72,19.61C63.4,19.89 62.89,20 62.7,20.31C62.58,20.5 62.76,20.53 64.47,20.52C66.11,20.51 66.66,20.55 67.21,20.72C67.36,20.77 67.76,20.85 68.1,20.9C68.43,20.95 68.97,21.06 69.3,21.15C69.63,21.24 70.09,21.36 70.33,21.41C70.84,21.53 71.49,21.78 71.96,22.04C72.14,22.14 72.4,22.26 72.53,22.3C72.85,22.4 73.94,22.96 74.41,23.26C74.91,23.58 76.16,23.96 76.16,23.79Z"/></mask></defs><g transform="translate(0 -817) scale(23.8636) translate(-47 -14)"><rect x="47" y="14" width="44" height="44" fill="currentColor" mask="url(#kinglet-logo)"/></g><path fill="currentColor" transform="translate(1335 0)" d="M611 -60Q624 -60 624 -45V-15Q624 0 609 0H364Q349 0 349 -15V-46Q349 -60 362 -60H377Q387 -60 395.5 -64Q404 -68 404 -75Q404 -82 396 -90L264 -233L243 -214V-155Q243 -116 246.5 -95.5Q250 -75 261.5 -67.5Q273 -60 297 -60Q312 -60 312 -45V-15Q312 0 297 0H30Q15 0 15 -15V-45Q15 -60 30 -60Q67 -60 85 -87.5Q103 -115 103 -155V-530Q103 -557 99.5 -582Q96 -607 83.5 -624.5Q71 -642 43 -645Q32 -646 32 -658V-692Q32 -698 35.5 -700.5Q39 -703 46 -705Q126 -731 170 -757Q214 -783 234 -798Q237 -800 239 -800H241Q243 -800 243 -798V-302L365 -413Q373 -421 373 -427Q373 -440 353 -440H323Q310 -440 310 -455V-485Q310 -500 325 -500H547Q562 -500 562 -485V-455Q562 -440 549 -440H537Q508 -440 485.5 -425Q463 -410 424 -375L347 -306L561 -91Q578 -74 588 -67Q598 -60 608 -60Z M928 -60Q943 -60 943 -45V-15Q943 0 926 0H643Q626 0 626 -15V-45Q626 -60 641 -60H643Q680 -60 697.5 -87.5Q715 -115 715 -155V-261Q715 -284 711.5 -307Q708 -330 696 -347Q684 -364 656 -367Q644 -368 644 -380V-414Q644 -420 648 -422.5Q652 -425 659 -427Q738 -453 780.5 -480.5Q823 -508 843 -529Q845 -531 847 -531H850Q852 -531 852 -529V-156Q852 -116 870 -88Q888 -60 925 -60ZM785 -740Q811 -740 836 -715Q861 -690 861 -665Q861 -640 836 -615Q811 -590 785 -590Q761 -590 735 -615Q710 -639 710 -665Q710 -690 735 -715Q760 -740 785 -740Z M1529 -326V-155Q1529 -100 1546.5 -80Q1564 -60 1593 -60H1601Q1616 -60 1616 -45V-15Q1616 0 1601 0H1335Q1320 0 1320 -15V-45Q1320 -60 1335 -60H1342Q1363 -60 1376 -80Q1389 -100 1389 -155V-326Q1389 -374 1374 -399.5Q1359 -425 1317 -425Q1292 -425 1267 -412.5Q1242 -400 1223 -380.5Q1204 -361 1195 -339V-155Q1195 -115 1212.5 -87.5Q1230 -60 1259 -60H1261Q1276 -60 1276 -45V-15Q1276 0 1261 0H980Q965 0 965 -15V-45Q965 -60 980 -60H982Q1019 -60 1037 -87.5Q1055 -115 1055 -155V-281Q1055 -308 1051.5 -333Q1048 -358 1035.5 -375.5Q1023 -393 995 -396Q984 -397 984 -409V-443Q984 -453 998 -456Q1070 -467 1121.5 -490Q1173 -513 1193 -527Q1198 -531 1201 -531H1202Q1204 -531 1204 -529Q1204 -527 1203 -521L1186 -398Q1200 -421 1223 -447.5Q1246 -474 1280 -493.5Q1314 -513 1359 -513Q1413 -513 1447 -497Q1481 -481 1498.5 -454Q1516 -427 1522.5 -394Q1529 -361 1529 -326Z M2117 -530Q2121 -531 2125 -531Q2130 -531 2130 -516Q2130 -467 2111.5 -440Q2093 -413 2059 -413Q2083 -373 2083 -321Q2083 -268 2056.5 -224.5Q2030 -181 1981 -155.5Q1932 -130 1863 -130Q1793 -130 1742 -158Q1729 -148 1729 -133Q1729 -118 1740 -107.5Q1751 -97 1782.5 -90.5Q1814 -84 1875 -81Q1919 -79 1960.5 -72Q2002 -65 2035 -49.5Q2068 -34 2087.5 -6Q2107 22 2107 67Q2107 108 2085.5 136.5Q2064 165 2027.5 182Q1991 199 1947 207Q1903 215 1858 215Q1797 215 1745.5 202Q1694 189 1662.5 162Q1631 135 1631 93Q1631 60 1648.5 36.5Q1666 13 1691 -1Q1640 -33 1640 -92Q1640 -126 1657.5 -150Q1675 -174 1702 -185Q1643 -239 1643 -321Q1643 -374 1669.5 -417.5Q1696 -461 1745.5 -487Q1795 -513 1863 -513Q1905 -513 1939.5 -502.5Q1974 -492 2001 -474Q2006 -471 2009.5 -470.5Q2013 -470 2015 -470Q2023 -470 2028 -475.5Q2033 -481 2033 -496V-499Q2033 -512 2044 -514ZM1863 -453Q1825 -453 1803.5 -432Q1782 -411 1773.5 -380.5Q1765 -350 1765 -321Q1765 -292 1773.5 -261.5Q1782 -231 1803.5 -210Q1825 -189 1863 -189Q1901 -189 1920.5 -210Q1940 -231 1947 -261.5Q1954 -292 1954 -321Q1954 -350 1947 -380.5Q1940 -411 1920.5 -432Q1901 -453 1863 -453ZM1859 146Q1933 146 1972.5 132Q2012 118 2012 95Q2012 63 1970 52.5Q1928 42 1852 38Q1798 35 1759 26Q1731 45 1731 79Q1731 94 1742 109.5Q1753 125 1781 135.5Q1809 146 1859 146Z M2430 -60Q2445 -60 2445 -45V-15Q2445 0 2428 0H2145Q2128 0 2128 -15V-45Q2128 -60 2143 -60H2145Q2182 -60 2199.5 -87.5Q2217 -115 2217 -155V-530Q2217 -558 2213.5 -583Q2210 -608 2198 -625.5Q2186 -643 2158 -646Q2146 -647 2146 -659V-693Q2146 -699 2150 -701Q2154 -703 2161 -706Q2232 -732 2274.5 -754.5Q2317 -777 2345 -798Q2347 -800 2349 -800H2352Q2354 -800 2354 -798V-156Q2354 -116 2372 -88Q2390 -60 2427 -60Z M2592 -179Q2609 -137 2646.5 -104Q2684 -71 2742 -71Q2774 -71 2809 -89Q2844 -107 2870 -145Q2873 -150 2878 -150Q2883 -150 2888.5 -147Q2894 -144 2918 -130Q2922 -127 2922 -122Q2922 -115 2916 -105Q2888 -53 2840 -20Q2792 13 2715 13Q2632 13 2572 -24Q2512 -61 2479.5 -122Q2447 -183 2447 -255Q2447 -324 2467.5 -373.5Q2488 -423 2522 -453.5Q2556 -484 2598.5 -498.5Q2641 -513 2685 -513Q2735 -513 2773 -493.5Q2811 -474 2837.5 -444Q2864 -414 2877.5 -380.5Q2891 -347 2891 -318Q2891 -310 2882 -306ZM2741 -322Q2741 -370 2718 -401Q2695 -432 2660 -432Q2619 -432 2595 -399.5Q2571 -367 2571 -318Q2571 -303 2572.5 -281Q2574 -259 2580 -241Z M3309 -72Q3312 -68 3312 -63Q3312 -57 3304 -52L3274 -33Q3247 -16 3209 -1.5Q3171 13 3133 13Q3103 13 3076.5 -1Q3050 -15 3034 -48.5Q3018 -82 3018 -141V-326Q3018 -353 3015 -379.5Q3012 -406 2996.5 -423Q2981 -440 2945 -440Q2930 -440 2930 -455V-485Q2930 -500 2945 -500H3018V-567Q3018 -580 3027 -585Q3049 -597 3085 -618.5Q3121 -640 3149 -668Q3151 -670 3154 -670H3156Q3158 -670 3158 -667V-500H3292Q3307 -500 3307 -485V-442Q3307 -427 3292 -427H3158V-141Q3158 -102 3170 -87.5Q3182 -73 3200 -73Q3217 -73 3236 -82.5Q3255 -92 3271 -102Q3278 -106 3282 -106Q3288 -106 3293 -98Z"/></svg></a>
     <div class="links">
       <a href="#fonctionnalites">Fonctionnalités</a>
       <a href="#mcp">Claude Code</a>

diff --git a/brand/README.md b/brand/README.md
@@ -9,6 +9,8 @@ Le roitelet (en anglais *kinglet*), en noir plein ou en blanc plein. Tout part d
 | `kinglet-bird-black.svg`, `kinglet-bird-white.svg` | L'oiseau entier sur sa branche. Sert pour l'écran d'accueil de l'app et l'image de partage. |
 | `kinglet-bird-nobranch-*.svg` | L'oiseau sans la branche. |
 | `kinglet-round-black.svg`, `kinglet-round-white.svg` | La tête dans un médaillon rond, pour le logo du site à côté du nom. |
-| `png/` | Exports PNG transparents (icônes en 512 et 1024 px, oiseau en 1024 px, médaillon en 512 px). |
+| `kinglet-logo-black.svg`, `kinglet-logo-white.svg` | Le logo complet : le médaillon et le nom. Sert pour le site et l'image de partage. |
+| `kinglet-wordmark-black.svg`, `kinglet-wordmark-white.svg` | Le nom seul. |
+| `png/` | Exports PNG transparents (icônes en 512 et 1024 px, oiseau en 1024 px, médaillon en 512 px, logo en 1600 px, nom en 1200 px). |
 
-Le nom s'écrit en minuscules, `kinglet`.
+Le nom s'écrit en minuscules, `kinglet`, en Young Serif (Bryan Kirschen, licence SIL Open Font License). Dans les SVG, les lettres sont converties en tracés : pas besoin d'installer la police pour les afficher. L'espace entre les lettres est réduit de 2 %.
